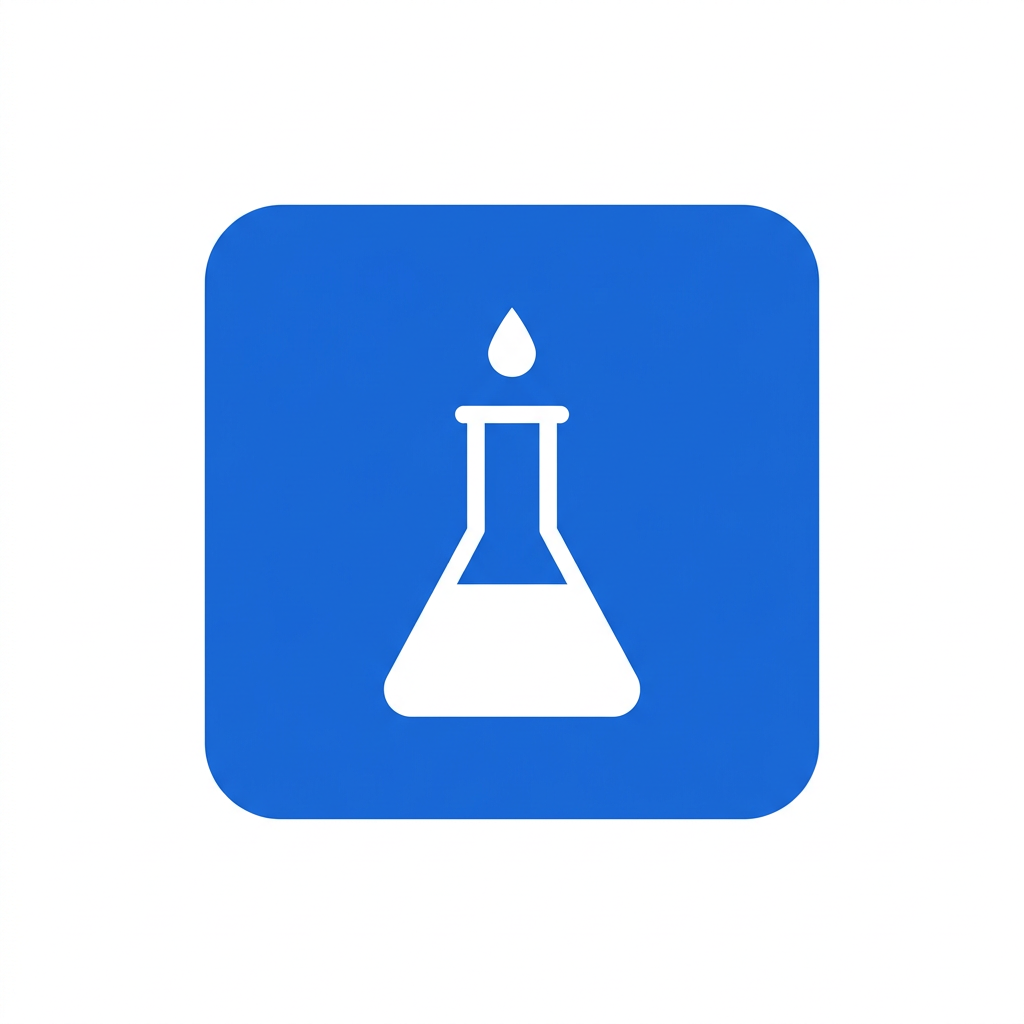
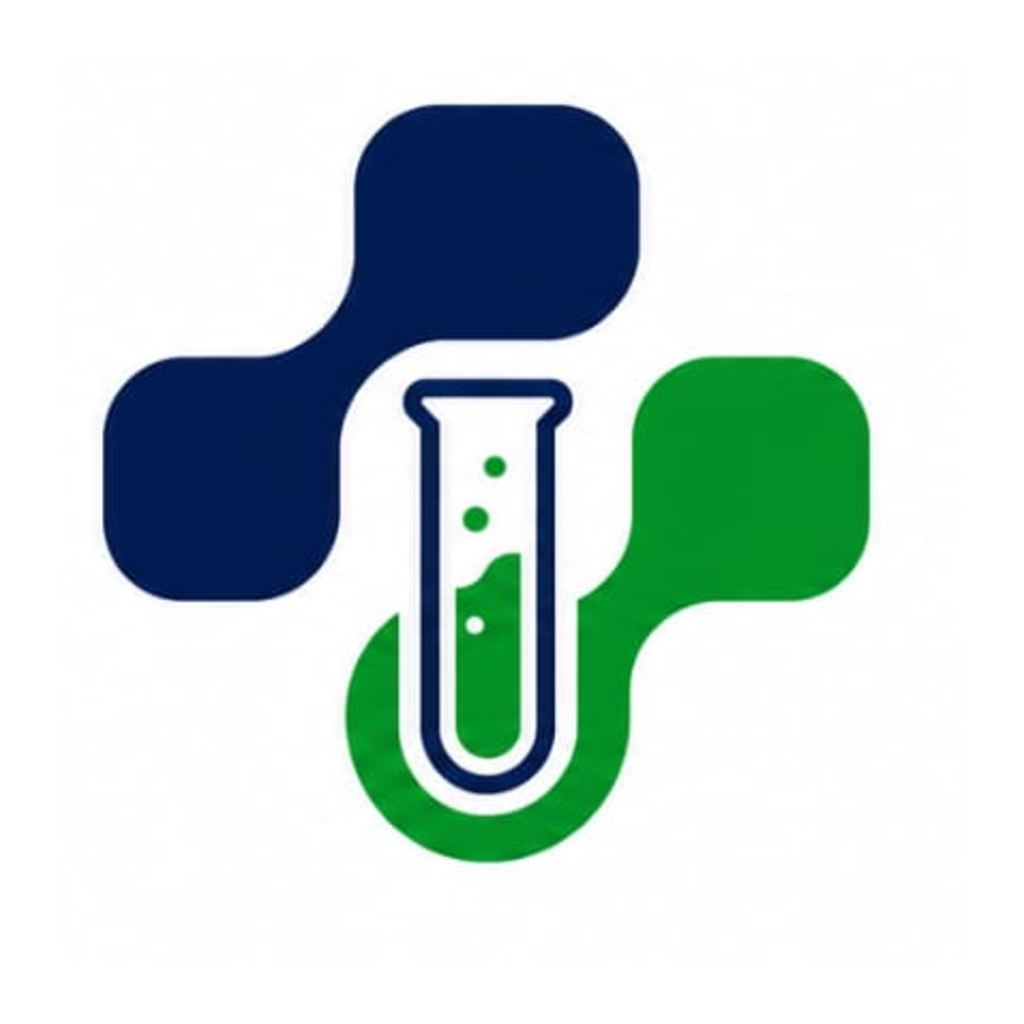
apply official branding and refine report workflow

diff --git a/newapp/components/kit.tsx b/newapp/components/kit.tsx
@@ -333,19 +333,17 @@ export function SearchBar({
   right,
   value,
   onChangeText,
-  compact = false,
 }: {
   placeholder: string;
   right?: React.ReactNode;
   value?: string;
   onChangeText?: (value: string) => void;
-  compact?: boolean;
 }) {
   return (
-    <View style={[styles.searchBox, compact && styles.searchBoxCompact]}>
-      <MaterialCommunityIcons name="magnify" size={compact ? 15 : 17} color={C.faint} />
+    <View style={styles.searchBox}>
+      <MaterialCommunityIcons name="magnify" size={17} color={C.faint} />
       <TextInput
-        style={[styles.searchInput, compact && styles.searchInputCompact]}
+        style={styles.searchInput}
         placeholder={placeholder}
         placeholderTextColor={C.faint}
         selectionColor={C.primary}
@@ -421,28 +419,39 @@ export function SegTabs({ tabs, active, onChange }: { tabs: string[]; active: nu
 
 export function StepIndicator({ current }: { current: number }) {
   const steps = ['Patient & Test', 'Report Values', 'Preview & Save'];
+  const progress = `${((Math.min(Math.max(current, 1), steps.length) - 1) / (steps.length - 1)) * 100}%` as `${number}%`;
+
   return (
-    <View style={[styles.row, { paddingHorizontal: PAGE_GUTTER, paddingVertical: 10, justifyContent: 'center' }]}>
-      {steps.map((s, i) => {
-        const n = i + 1;
-        const done = n < current;
-        const active = n === current;
+    <View
+      accessibilityRole="progressbar"
+      accessibilityValue={{ min: 1, max: steps.length, now: current }}
+      style={styles.stepIndicator}
+    >
+      <View pointerEvents="none" style={styles.stepTrackFrame}>
+        <View style={styles.stepTrack}>
+          <View style={[styles.stepTrackProgress, { width: progress }]} />
+        </View>
+      </View>
+      {steps.map((label, index) => {
+        const number = index + 1;
+        const done = number < current;
+        const active = number === current;
         return (
-          <React.Fragment key={s}>
-            <View style={styles.row}>
-              <View style={[styles.stepCircle, (done || active) && { backgroundColor: C.primary }]}>
-                {done ? (
-                  <MaterialCommunityIcons name="check" size={13} color="#fff" />
-                ) : (
-                  <T style={{ color: active ? '#fff' : C.sub, fontWeight: '700', fontSize: 12 }}>{n}</T>
-                )}
-              </View>
-              <T style={[styles.stepLabel, (done || active) && { color: C.primary, fontWeight: '700' }]} numberOfLines={1}>
-                {s}
-              </T>
+          <View key={label} style={styles.stepItem}>
+            <View style={[styles.stepCircle, (done || active) && styles.stepCircleActive]}>
+              {done ? (
+                <MaterialCommunityIcons name="check" size={13} color="#fff" />
+              ) : (
+                <T style={[styles.stepNumber, active && styles.stepNumberActive]}>{number}</T>
+              )}
             </View>
-            {n < 3 && <View style={styles.stepLine} />}
-          </React.Fragment>
+            <T
+              style={[styles.stepLabel, (done || active) && styles.stepLabelActive]}
+              numberOfLines={2}
+            >
+              {label}
+            </T>
+          </View>
         );
       })}
     </View>
@@ -585,8 +594,6 @@ const styles = StyleSheet.create({
     paddingHorizontal: 8,
   },
   searchInput: { flex: 1, fontSize: 12.5, color: C.text, paddingVertical: 12, marginLeft: 4, fontFamily: F.regular },
-  searchBoxCompact: { flex: 0, width: '100%', height: 28, paddingHorizontal: 6 },
-  searchInputCompact: { height: 26, fontSize: 11, paddingVertical: 0 },
   squareBtn: {
     width: 44,
     height: 44,
@@ -629,6 +636,29 @@ const styles = StyleSheet.create({
   },
   segItem: { flex: 1, paddingVertical: 10, alignItems: 'center' },
   segText: { fontSize: 12, color: C.sub, fontWeight: '600' },
+  stepIndicator: {
+    flexDirection: 'row',
+    paddingHorizontal: PAGE_GUTTER,
+    paddingTop: 10,
+    paddingBottom: 8,
+    position: 'relative',
+  },
+  stepTrackFrame: {
+    position: 'absolute',
+    top: 22,
+    left: PAGE_GUTTER,
+    right: PAGE_GUTTER,
+    height: 2,
+  },
+  stepTrack: {
+    flex: 1,
+    marginHorizontal: '16.6667%',
+    height: 2,
+    backgroundColor: '#E2E7F0',
+    overflow: 'hidden',
+  },
+  stepTrackProgress: { height: 2, backgroundColor: C.primary },
+  stepItem: { flex: 1, alignItems: 'center' },
   stepCircle: {
     width: 26,
     height: 26,
@@ -637,8 +667,20 @@ const styles = StyleSheet.create({
     alignItems: 'center',
     justifyContent: 'center',
   },
-  stepLabel: { fontSize: 11.5, color: C.sub, marginLeft: 4, maxWidth: 92 },
-  stepLine: { flex: 1, height: 2, backgroundColor: '#E2E7F0', marginHorizontal: 4, minWidth: 12 },
+  stepCircleActive: { backgroundColor: C.primary },
+  stepNumber: { color: C.sub, fontWeight: '700', fontSize: 12 },
+  stepNumberActive: { color: '#fff' },
+  stepLabel: {
+    width: '100%',
+    minHeight: 30,
+    marginTop: 4,
+    paddingHorizontal: 2,
+    fontSize: 11,
+    lineHeight: 13,
+    color: C.sub,
+    textAlign: 'center',
+  },
+  stepLabelActive: { color: C.primary, fontWeight: '700' },
   listFooter: {
     minHeight: 46,
     flexDirection: 'row',

diff --git a/newapp/app/report-preview.tsx b/newapp/app/report-preview.tsx
@@ -1,24 +1,15 @@
 // Report Preview — PDF viewer look, UI PDF screen 7 (right side)
 import React from 'react';
 import { T } from '../components/T';
-import { View, Text, StyleSheet, TouchableOpacity, ScrollView } from 'react-native';
+import { BrandLogo } from '../components/Brand';
+import { View, StyleSheet, TouchableOpacity, ScrollView } from 'react-native';
 import { useRouter } from 'expo-router';
 import { useSafeAreaInsets } from 'react-native-safe-area-context';
 import MaterialCommunityIcons from '@expo/vector-icons/MaterialCommunityIcons';
-import Svg, { Path, Circle } from 'react-native-svg';
 import { BlueHeader, HeaderIconBtn } from '../components/kit';
 import { QRBox, Signature, Stamp } from '../components/charts';
 import { C, PAGE_GUTTER } from '../src/theme';
 import { lab, cbcGroups } from '../src/data';
-
-function LogoMark() {
-  return (
-    <Svg width={34} height={34}>
-      <Path d="M17 3 C 22 10, 27 14, 27 20 a 10 10 0 0 1 -20 0 C 7 14, 12 10, 17 3 Z" fill="#1467E8" />
-      <Path d="M17 10 C 19.5 13.5, 22 16, 22 19.5 a 5 5 0 0 1 -10 0 C 12 16, 14.5 13.5, 17 10 Z" fill="#7FB2F7" />
-    </Svg>
-  );
-}
 
 const infoRows: [string, string, string, string][] = [
   ['Patient Name', 'Ramesh Kumar', 'Ref. Doctor', 'Dr. Rakesh Kumar'],
@@ -76,13 +67,8 @@ export default function ReportPreview() {
           <View style={styles.paper}>
             {/* letter head */}
             <View style={styles.letterHead}>
-              <View style={{ flexDirection: 'row', alignItems: 'center', flex: 1 }}>
-                <LogoMark />
-                <View style={{ marginLeft: 4 }}>
-                  <T style={styles.brand}>PathoNexa</T>
-                  <T style={styles.brandSub}>DIAGNOSTIC LABORATORY</T>
-                  <T style={styles.brandTag}>{lab.tagline}</T>
-                </View>
+              <View style={styles.letterHeadBrand}>
+                <BrandLogo width={112} />
               </View>
               <View style={{ alignItems: 'flex-end' }}>
                 <T style={styles.addr}>{lab.name}</T>
@@ -206,9 +192,7 @@ const styles = StyleSheet.create({
     padding: 10,
   },
   letterHead: { flexDirection: 'row', alignItems: 'flex-start', gap: 4 },
-  brand: { color: C.primary, fontSize: 17, fontWeight: '800' },
-  brandSub: { color: C.text, fontSize: 7.5, letterSpacing: 1.2, fontWeight: '700', marginTop: 1 },
-  brandTag: { color: C.faint, fontSize: 7, marginTop: 2 },
+  letterHeadBrand: { flex: 1, alignItems: 'flex-start' },
   addr: { color: C.sub, fontSize: 6.8, textAlign: 'right', lineHeight: 9 },
   infoGrid: { borderWidth: 1, borderColor: '#E5E7EB', borderRadius: 2, marginTop: 12 },
   infoRow: { flexDirection: 'row' },

diff --git a/newapp/components/AuthScaffold.tsx b/newapp/components/AuthScaffold.tsx
@@ -11,6 +11,7 @@ import { LinearGradient } from 'expo-linear-gradient';
 import { MaterialCommunityIcons } from '@expo/vector-icons';
 import { useSafeAreaInsets } from 'react-native-safe-area-context';
 import { T } from './T';
+import { BrandLogo } from './Brand';
 import { C, F, PAGE_GUTTER, R } from '../src/theme';
 import { MAXW } from './kit';
 
@@ -56,10 +57,7 @@ export default function AuthScaffold({ title, subtitle, children, onBack, footer
               </TouchableOpacity>
             ) : null}
 
-            <View style={styles.logo}>
-              <MaterialCommunityIcons name="flask-outline" size={29} color={C.primary} />
-            </View>
-            <T style={styles.brand}>PathoNexa</T>
+            <BrandLogo width={180} style={styles.logo} />
             <T style={styles.heroTitle}>{title}</T>
             <T style={styles.heroSubtitle}>{subtitle}</T>
             <View style={styles.securePill}>
@@ -107,23 +105,7 @@ const styles = StyleSheet.create({
     justifyContent: 'center',
     backgroundColor: 'rgba(255,255,255,0.10)',
   },
-  logo: {
-    width: 54,
-    height: 54,
-    borderRadius: 27,
-    alignItems: 'center',
-    justifyContent: 'center',
-    backgroundColor: C.card,
-    borderWidth: 2,
-    borderColor: 'rgba(255,255,255,0.65)',
-  },
-  brand: {
-    marginTop: 4,
-    color: C.card,
-    fontFamily: F.bold,
-    fontSize: 17,
-    letterSpacing: 0.15,
-  },
+  logo: { backgroundColor: C.card },
   heroTitle: {
     marginTop: 8,
     color: C.card,

diff --git a/newapp/components/Brand.tsx b/newapp/components/Brand.tsx
@@ -1,0 +1,41 @@
+import React from 'react';
+import { Image, type ImageStyle, type StyleProp } from 'react-native';
+import { R } from '../src/theme';
+
+const iconSource = require('../assets/icon.png');
+const logoSource = require('../assets/logo.png');
+
+type BrandIconProps = {
+  size?: number;
+  circular?: boolean;
+  style?: StyleProp<ImageStyle>;
+};
+
+export function BrandIcon({ size = 48, circular = false, style }: BrandIconProps) {
+  return (
+    <Image
+      accessibilityLabel="PathoNexa app icon"
+      source={iconSource}
+      resizeMode="contain"
+      style={[
+        {
+          width: size,
+          height: size,
+          borderRadius: circular ? size / 2 : R.field,
+        },
+        style,
+      ]}
+    />
+  );
+}
+
+export function BrandLogo({ width = 180, style }: { width?: number; style?: StyleProp<ImageStyle> }) {
+  return (
+    <Image
+      accessibilityLabel="PathoNexa logo"
+      source={logoSource}
+      resizeMode="contain"
+      style={[{ width, height: width / 2, borderRadius: R.field }, style]}
+    />
+  );
+}

diff --git a/newapp/components/Drawer.tsx b/newapp/components/Drawer.tsx
@@ -1,6 +1,7 @@
 // Slide-in side drawer — layout & content per UI PDF (menu screen)
 import React, { createContext, useContext, useState } from 'react';
 import { T } from './T';
+import { BrandIcon } from './Brand';
 import { View, StyleSheet, TouchableOpacity, ScrollView, Animated, Dimensions, Platform } from 'react-native';
 import { useSafeAreaInsets } from 'react-native-safe-area-context';
 import { useRouter, usePathname } from 'expo-router';
@@ -63,7 +64,7 @@ function DrawerPanel() {
           style={[styles.panelHeader, { paddingTop: insets.top + 16, paddingBottom: 16 }]}
         >
           <View style={styles.logoCircle}>
-            <MaterialCommunityIcons name="flask" size={30} color={C.primary} />
+            <BrandIcon size={52} circular />
           </View>
           <View style={{ flex: 1, marginLeft: 4 }}>
             <View style={styles.row}>

diff --git a/newapp/app/(tabs)/more.tsx b/newapp/app/(tabs)/more.tsx
@@ -1,6 +1,7 @@
 // More — UI PDF screen 8
 import React from 'react';
 import { T } from '../../components/T';
+import { BrandIcon } from '../../components/Brand';
 import { View, StyleSheet, TouchableOpacity } from 'react-native';
 import MaterialCommunityIcons from '@expo/vector-icons/MaterialCommunityIcons';
 import { BlueHeader, HeaderIconBtn, ScrollPage, Card, Chevron } from '../../components/kit';
@@ -18,7 +19,7 @@ export default function More() {
       <View style={styles.body}>
         <Card style={[styles.labCard, { marginTop: -6 }]}>
           <View style={styles.labIcon}>
-            <MaterialCommunityIcons name="flask" size={26} color={C.primary} />
+            <BrandIcon size={48} circular />
           </View>
           <View style={{ flex: 1, marginLeft: 4 }}>
             <T style={styles.labName}>{lab.name}</T>

diff --git a/newapp/app/create-report.tsx b/newapp/app/create-report.tsx
@@ -280,7 +280,7 @@ export default function CreateReport() {
             <T style={styles.cardHeadTitle}>Enter Test Values</T>
             <View style={styles.valuesToolbar}>
               <View style={styles.parameterSearch}>
-                <SearchBar placeholder="Search parameter" compact />
+                <SearchBar placeholder="Search parameter" />
               </View>
               <View style={styles.valuesActions}>
                 <View style={styles.rangeControl}>
